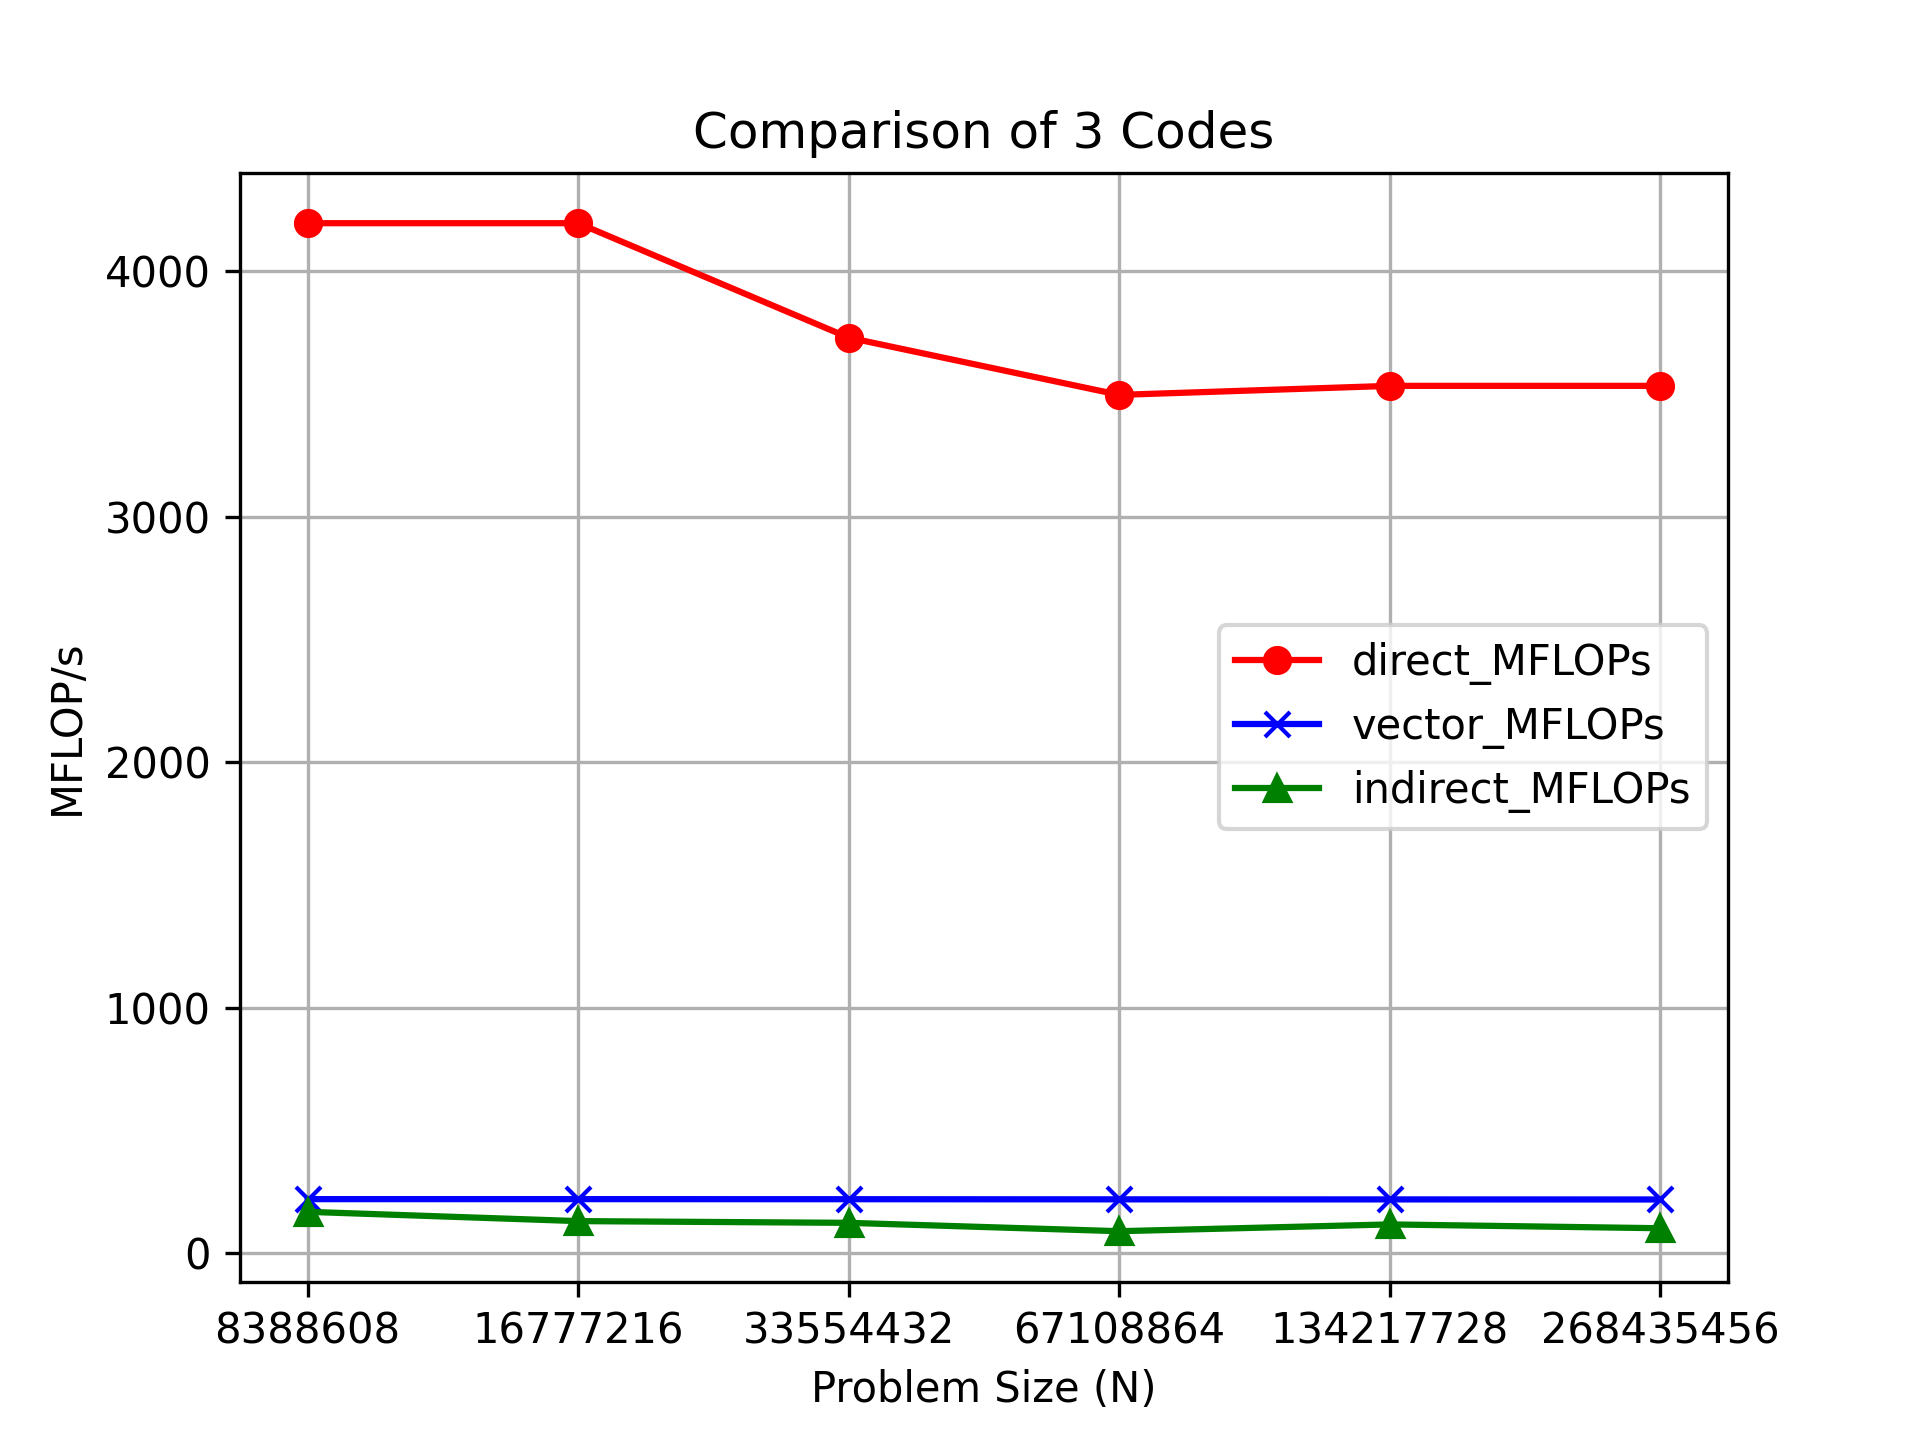
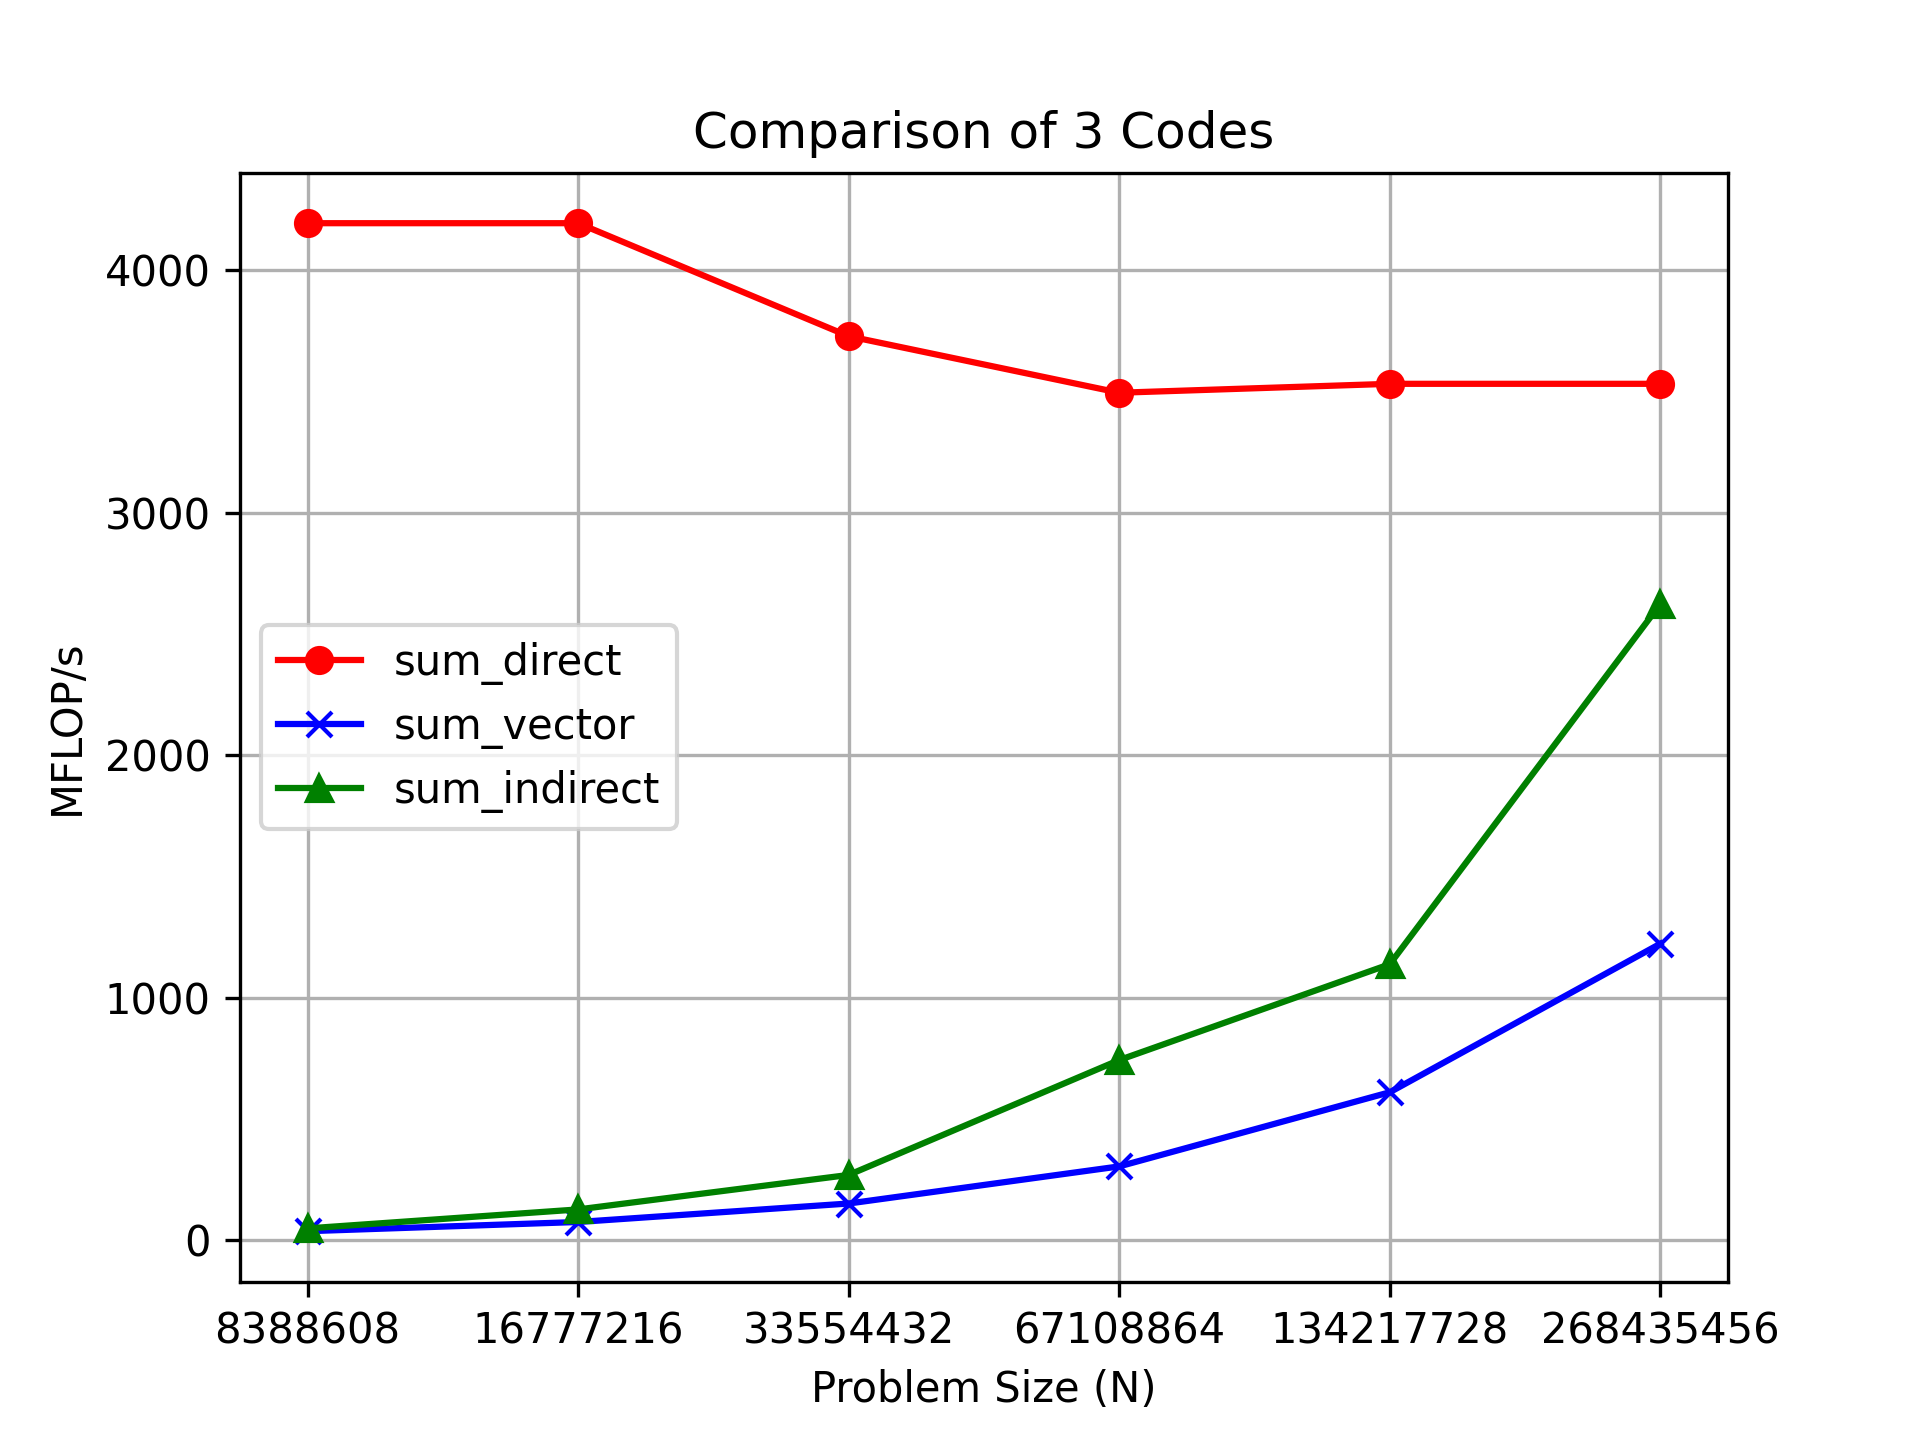
add run 5x

diff --git a/plot_3vars_savefig.py b/plot_3vars_savefig.py
@@ -45,9 +45,17 @@ xlocs = [i for i in range(len(problem_sizes))]
 
 plt.xticks(xlocs, problem_sizes)
 
-plt.plot(code1_time, "r-o")
-plt.plot(code2_time, "b-x")
-plt.plot(code3_time, "g-^")
+code1_time = df["direct_MFLOPs"]
+code2_time = df["vector_time_ms"]
+code3_time = df["indirect_time_ms"]
+
+plt.plot(code1_time, "r-o", label="sum_direct")
+plt.plot(code2_time, "b-x", label="sum_vector")
+plt.plot(code3_time, "g-^", label="sum_indirect")
+
+# plt.plot(code1_time, "r-o")
+# plt.plot(code2_time, "b-x")
+# plt.plot(code3_time, "g-^")
 
 #plt.xscale("log")
 #plt.yscale("log")
@@ -56,7 +64,8 @@ plt.xlabel("Problem Size (N)")
 plt.ylabel("MFLOP/s")
 
 varNames = [var_names[1], var_names[2], var_names[3]]
-plt.legend(varNames, loc="best")
+# plt.legend(varNames, loc="best")
+plt.legend(loc="best")
 
 plt.grid(axis='both')
 
